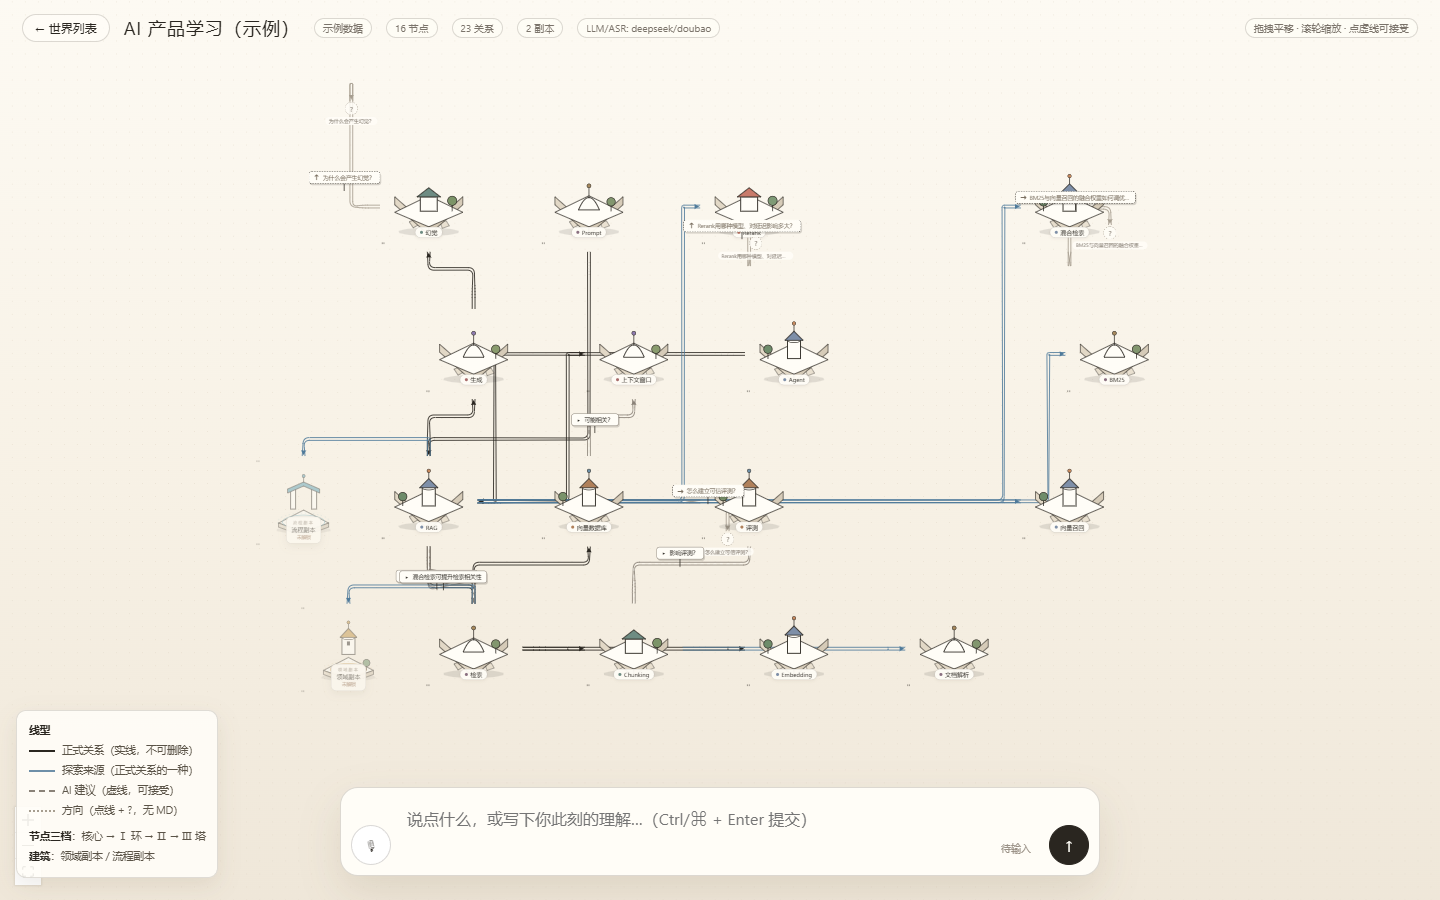
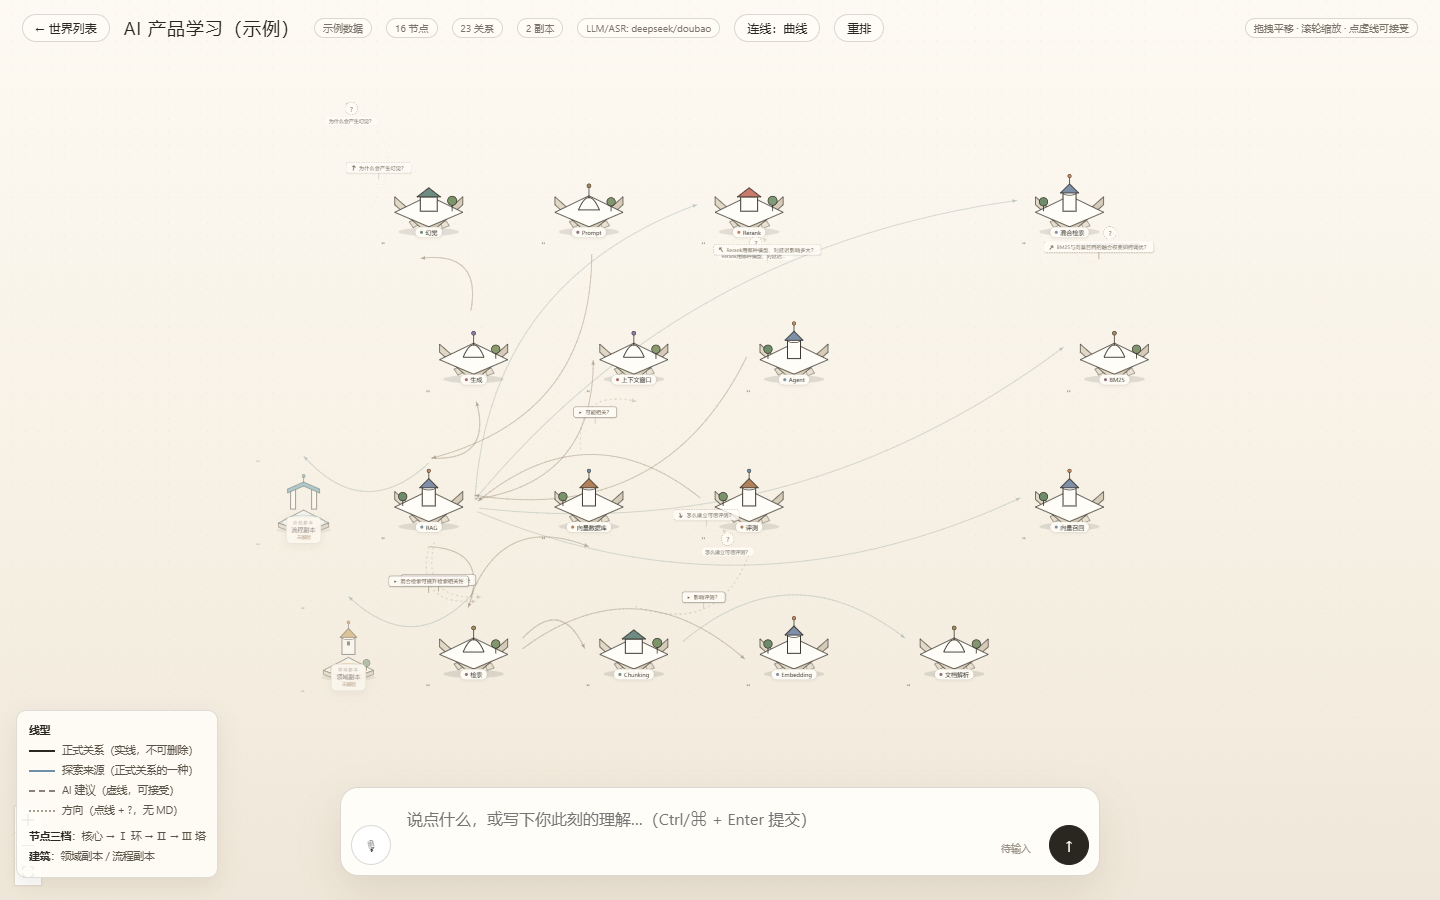
style(edges): 曲线弱化为地面小路，不再浮在岛上抢视觉
- 线色改为低对比土色/墨色，透明度 0.45~0.55，线宽 1.4px
- 建议线长虚线、方向线点线；箭头缩小并半透明
- 路牌缩小、纸色半透明、边框变浅，和地面同一层次
- 避障路由改用渲染后坐标（含去重叠位移），线端贴合岛体

diff --git a/web/src/components/RailEdge.tsx b/web/src/components/RailEdge.tsx
@@ -1,10 +1,17 @@
 import { EdgeLabelRenderer, type EdgeProps } from "@xyflow/react";
 
 const COLORS: Record<string, string> = {
-  formal: "#2a2620",
-  source: "#4f7a9a",
-  suggest: "#8a8278",
-  direction: "#a79e90",
+  // 地面小路：低对比墨色/土色，比岛弱一档
+  formal: "#8a7a63",
+  source: "#8fa3a0",
+  suggest: "#b0a390",
+  direction: "#b9ab97",
+};
+const OPACITY: Record<string, number> = {
+  formal: 0.55,
+  source: 0.5,
+  suggest: 0.52,
+  direction: 0.45,
 };
 
 type Pt = { x: number; y: number };
@@ -17,7 +24,6 @@ function normalOf(pos?: string): Pt {
   return { x: 0, y: 1 };
 }
 
-/** 手写备用折线（libavoid 不可用时） */
 function fallbackRoute(s: Pt, t: Pt, n1: Pt, n2: Pt, bend: number): Pt[] {
   const d = 34 + Math.abs(bend) * 14;
   const p1 = { x: s.x + n1.x * d, y: s.y + n1.y * d };
@@ -35,7 +41,6 @@ function hashOf(s: string) {
   return Math.abs(h);
 }
 
-/** 三次贝塞尔采样（曲线模式：像地面上的道路） */
 function curvePoints(s: Pt, t: Pt, id: string, bend: number): Pt[] {
   const dx = t.x - s.x;
   const dy = t.y - s.y;
@@ -48,9 +53,8 @@ function curvePoints(s: Pt, t: Pt, id: string, bend: number): Pt[] {
   const c1 = { x: s.x + dx * 0.33 + nx * bow, y: s.y + dy * 0.33 + ny * bow };
   const c2 = { x: s.x + dx * 0.66 + nx * bow, y: s.y + dy * 0.66 + ny * bow };
   const out: Pt[] = [];
-  const steps = 28;
-  for (let i = 0; i <= steps; i++) {
-    const u = i / steps;
+  for (let i = 0; i <= 28; i++) {
+    const u = i / 28;
     const v = 1 - u;
     out.push({
       x: v * v * v * s.x + 3 * v * v * u * c1.x + 3 * v * u * u * c2.x + u * u * u * t.x,
@@ -60,9 +64,9 @@ function curvePoints(s: Pt, t: Pt, id: string, bend: number): Pt[] {
   return out;
 }
 
-/** Catmull-Rom → 平滑路径，让曲线更自然 */
 function smoothPath(points: Pt[]) {
-  if (points.length < 3) return `M ${points[0].x} ${points[0].y} L ${points[points.length - 1].x} ${points[points.length - 1].y}`;
+  if (points.length < 3)
+    return `M ${points[0].x} ${points[0].y} L ${points[points.length - 1].x} ${points[points.length - 1].y}`;
   let d = `M ${points[0].x} ${points[0].y}`;
   for (let i = 0; i < points.length - 1; i++) {
     const p0 = points[Math.max(0, i - 1)];
@@ -97,17 +101,6 @@ function toPath(points: Pt[], r = 12) {
   return d;
 }
 
-function offsetLine(points: Pt[], off: number) {
-  return points.map((p, i) => {
-    const prev = points[Math.max(0, i - 1)];
-    const next = points[Math.min(points.length - 1, i + 1)];
-    const dx = next.x - prev.x;
-    const dy = next.y - prev.y;
-    const l = Math.hypot(dx, dy) || 1;
-    return { x: p.x + (-dy / l) * off, y: p.y + (dx / l) * off };
-  });
-}
-
 export default function RailEdge(props: EdgeProps) {
   const {
     id,
@@ -122,6 +115,7 @@ export default function RailEdge(props: EdgeProps) {
   const d = (data ?? {}) as any;
   const kind: string = d.kind ?? "formal";
   const color = COLORS[kind] ?? COLORS.formal;
+  const alpha = OPACITY[kind] ?? 0.5;
   const bend: number = d.bend ?? 0;
   const isDir = kind === "direction";
   const lod: number = d.lod ?? 2;
@@ -129,18 +123,15 @@ export default function RailEdge(props: EdgeProps) {
 
   let pts: Pt[];
   let path: string;
-  let isCurve = false;
   if (mode === "straight") {
     pts = [{ x: sourceX, y: sourceY }, { x: targetX, y: targetY }];
     path = toPath(pts);
   } else if (mode === "curve") {
     const routed = d.route as Pt[] | undefined;
     if (routed && routed.length > 2) {
-      // 先按避障折线走，再把拐角圆滑成曲线
       pts = routed;
       path = smoothPath(pts);
     } else {
-      // 同一节点发出的多条曲线错开起点，避免都从同一点扇形散开
       const seed2 = hashOf(id);
       const vx = targetX - sourceX;
       const vy = targetY - sourceY;
@@ -157,7 +148,6 @@ export default function RailEdge(props: EdgeProps) {
       );
       path = smoothPath(pts);
     }
-    isCurve = true;
   } else {
     const routed = d.route as Pt[] | undefined;
     pts =
@@ -173,10 +163,6 @@ export default function RailEdge(props: EdgeProps) {
     path = toPath(pts);
   }
 
-  const leftPath = isCurve ? smoothPath(offsetLine(pts, 2.8)) : toPath(offsetLine(pts, 2.8));
-  const rightPath = isCurve ? smoothPath(offsetLine(pts, -2.8)) : toPath(offsetLine(pts, -2.8));
-
-  // 路牌：沿路径按 id 哈希错位；优先用 World 全局避让后的位置
   const seed = hashOf(id);
   const frac = 0.3 + ((seed % 34) / 100);
   const total = pts.reduce(
@@ -217,25 +203,26 @@ export default function RailEdge(props: EdgeProps) {
   const ax = ux / ul;
   const ay = uy / ul;
   const arrowTip = { x: end.x - ax * 2, y: end.y - ay * 2 };
-  const arrowA = { x: end.x - ax * 12 - ay * 5.5, y: end.y - ay * 12 + ax * 5.5 };
-  const arrowB = { x: end.x - ax * 12 + ay * 5.5, y: end.y - ay * 12 - ax * 5.5 };
+  const arrowA = { x: end.x - ax * 9 - ay * 4, y: end.y - ay * 9 + ax * 4 };
+  const arrowB = { x: end.x - ax * 9 + ay * 4, y: end.y - ay * 9 - ax * 4 };
 
   return (
     <>
-      {/* 单线条：一条线 + 箭头 + 路标 */}
+      {/* 地面小路：细墨线，不垫底、不加粗 */}
       <path
         d={path}
         fill="none"
         stroke={color}
-        strokeWidth={2.2}
+        strokeWidth={1.4}
         strokeLinecap="round"
         strokeLinejoin="round"
-        strokeDasharray={kind === "suggest" ? "7 6" : kind === "direction" ? "2 6" : undefined}
-        opacity={0.92}
+        strokeDasharray={kind === "suggest" ? "4 6" : kind === "direction" ? "1 6" : undefined}
+        opacity={alpha}
       />
       <polygon
         points={`${arrowTip.x},${arrowTip.y} ${arrowA.x},${arrowA.y} ${arrowB.x},${arrowB.y}`}
         fill={color}
+        opacity={alpha * 0.9}
       />
 
       {showSign && (

diff --git a/web/src/styles.css b/web/src/styles.css
@@ -1,4 +1,4 @@
-:root {
+:root {
   --ink: #2a2620;
   --dim: #7a736a;
   --paper: #f7f2e8;
@@ -237,14 +237,14 @@ input, textarea { font: inherit; color: inherit; }
 /* ---------- 指路牌（立牌 + 指向箭头） ---------- */
 .rail-post { display: flex; flex-direction: column; align-items: center; pointer-events: all; }
 .rail-board {
-  display: inline-flex; align-items: center; gap: 6px; max-width: 240px;
-  background: #fffdf7; border: 1.5px solid #2a2620; border-radius: 6px;
-  padding: 4px 10px 4px 8px; font-size: 11.5px; color: #2a2620; cursor: pointer;
-  box-shadow: 2px 3px 0 rgba(42,38,32,.18); white-space: nowrap;
+  display: inline-flex; align-items: center; gap: 5px; max-width: 230px;
+  background: rgba(255,253,247,.8); border: 1px solid #b6a894; border-radius: 5px;
+  padding: 3px 9px 3px 7px; font-size: 10.5px; color: #6f6252; cursor: pointer;
+  box-shadow: 1px 2px 0 rgba(42,38,32,.10); white-space: nowrap;
 }
-.rail-board:hover { background: #2a2620; color: #fffdf7; }
+.rail-board:hover { background: #efe6d6; color: #3f382e; }
 .rail-board-arrow { display: inline-block; font-size: 13px; line-height: 1; transform-origin: 50% 50%; }
 .rail-board-text { overflow: hidden; text-overflow: ellipsis; }
-.rail-stem { width: 2px; height: 14px; background: #2a2620; opacity: .75; }
+.rail-stem { width: 1.5px; height: 12px; background: #8a7a63; opacity: .55; }
 .rail-post.dir .rail-board { border-style: dashed; color: #7a6f60; }
 .rail-post.suggest .rail-board { border-color: #8a8278; }

diff --git a/web/src/components/World.tsx b/web/src/components/World.tsx
@@ -1,4 +1,4 @@
-import { useCallback, useEffect, useMemo, useState } from "react";
+import { useCallback, useEffect, useMemo, useState } from "react";
 import {
   Background,
   Controls,
@@ -155,16 +155,18 @@ export default function World() {
     return [...base, ...bs, ...dirs];
   }, [nodes, buildings, edges, lod]);
 
-  // libavoid 正交避障：把节点当障碍，边绕开
+  // libavoid 正交避障：用"渲染后的节点坐标"当障碍（含去重叠位移），保证线端贴岛
   useEffect(() => {
     let alive = true;
-    const boxes = [...nodes.map((n) => ({
-      id: n.id,
-      x: n.x * SPREAD,
-      y: n.y * SPREAD,
-      w: NODE_W,
-      h: NODE_H,
-    }))];
+    const boxes = rfNodes
+      .filter((n) => n.type !== "direction")
+      .map((n) => ({
+        id: n.id,
+        x: n.position.x,
+        y: n.position.y,
+        w: NODE_W,
+        h: NODE_H,
+      }));
     const links = edges
       .filter((e) => e.kind !== "direction")
       .map((e) => ({ id: e.id, src: e.src, dst: e.dst }));
@@ -174,7 +176,7 @@ export default function World() {
     return () => {
       alive = false;
     };
-  }, [nodes, edges]);
+  }, [rfNodes, edges]);
 
   // 路牌全局排布：沿路径错位放置，再做简单碰撞避让，避免牌子互相压/压岛
   const signPos = useMemo<Record<string, { x: number; y: number }>>(() => {
